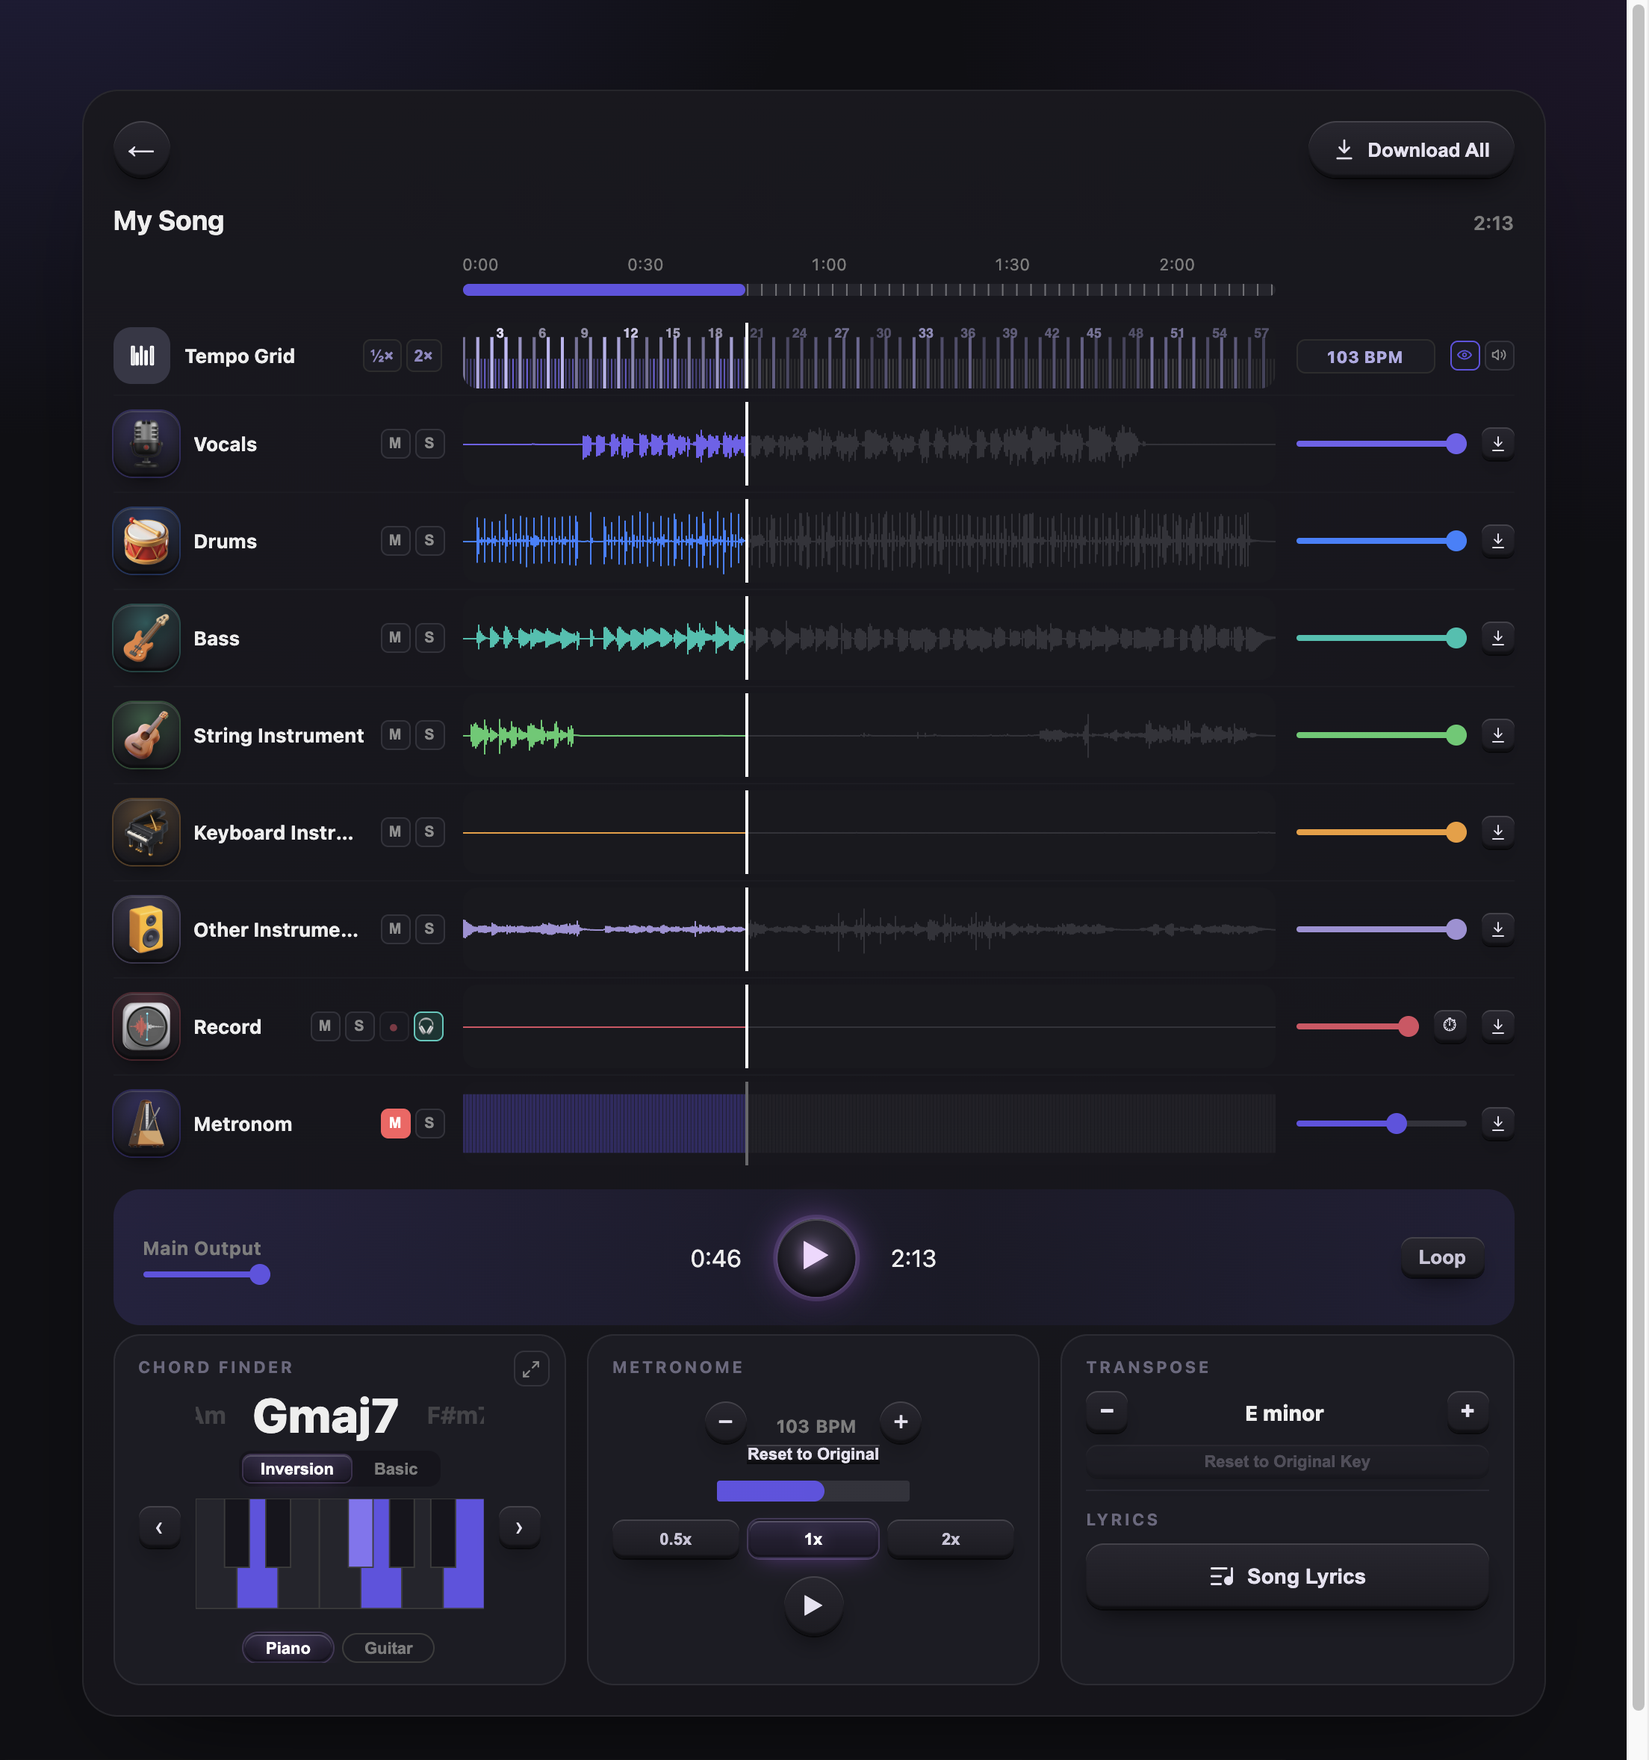
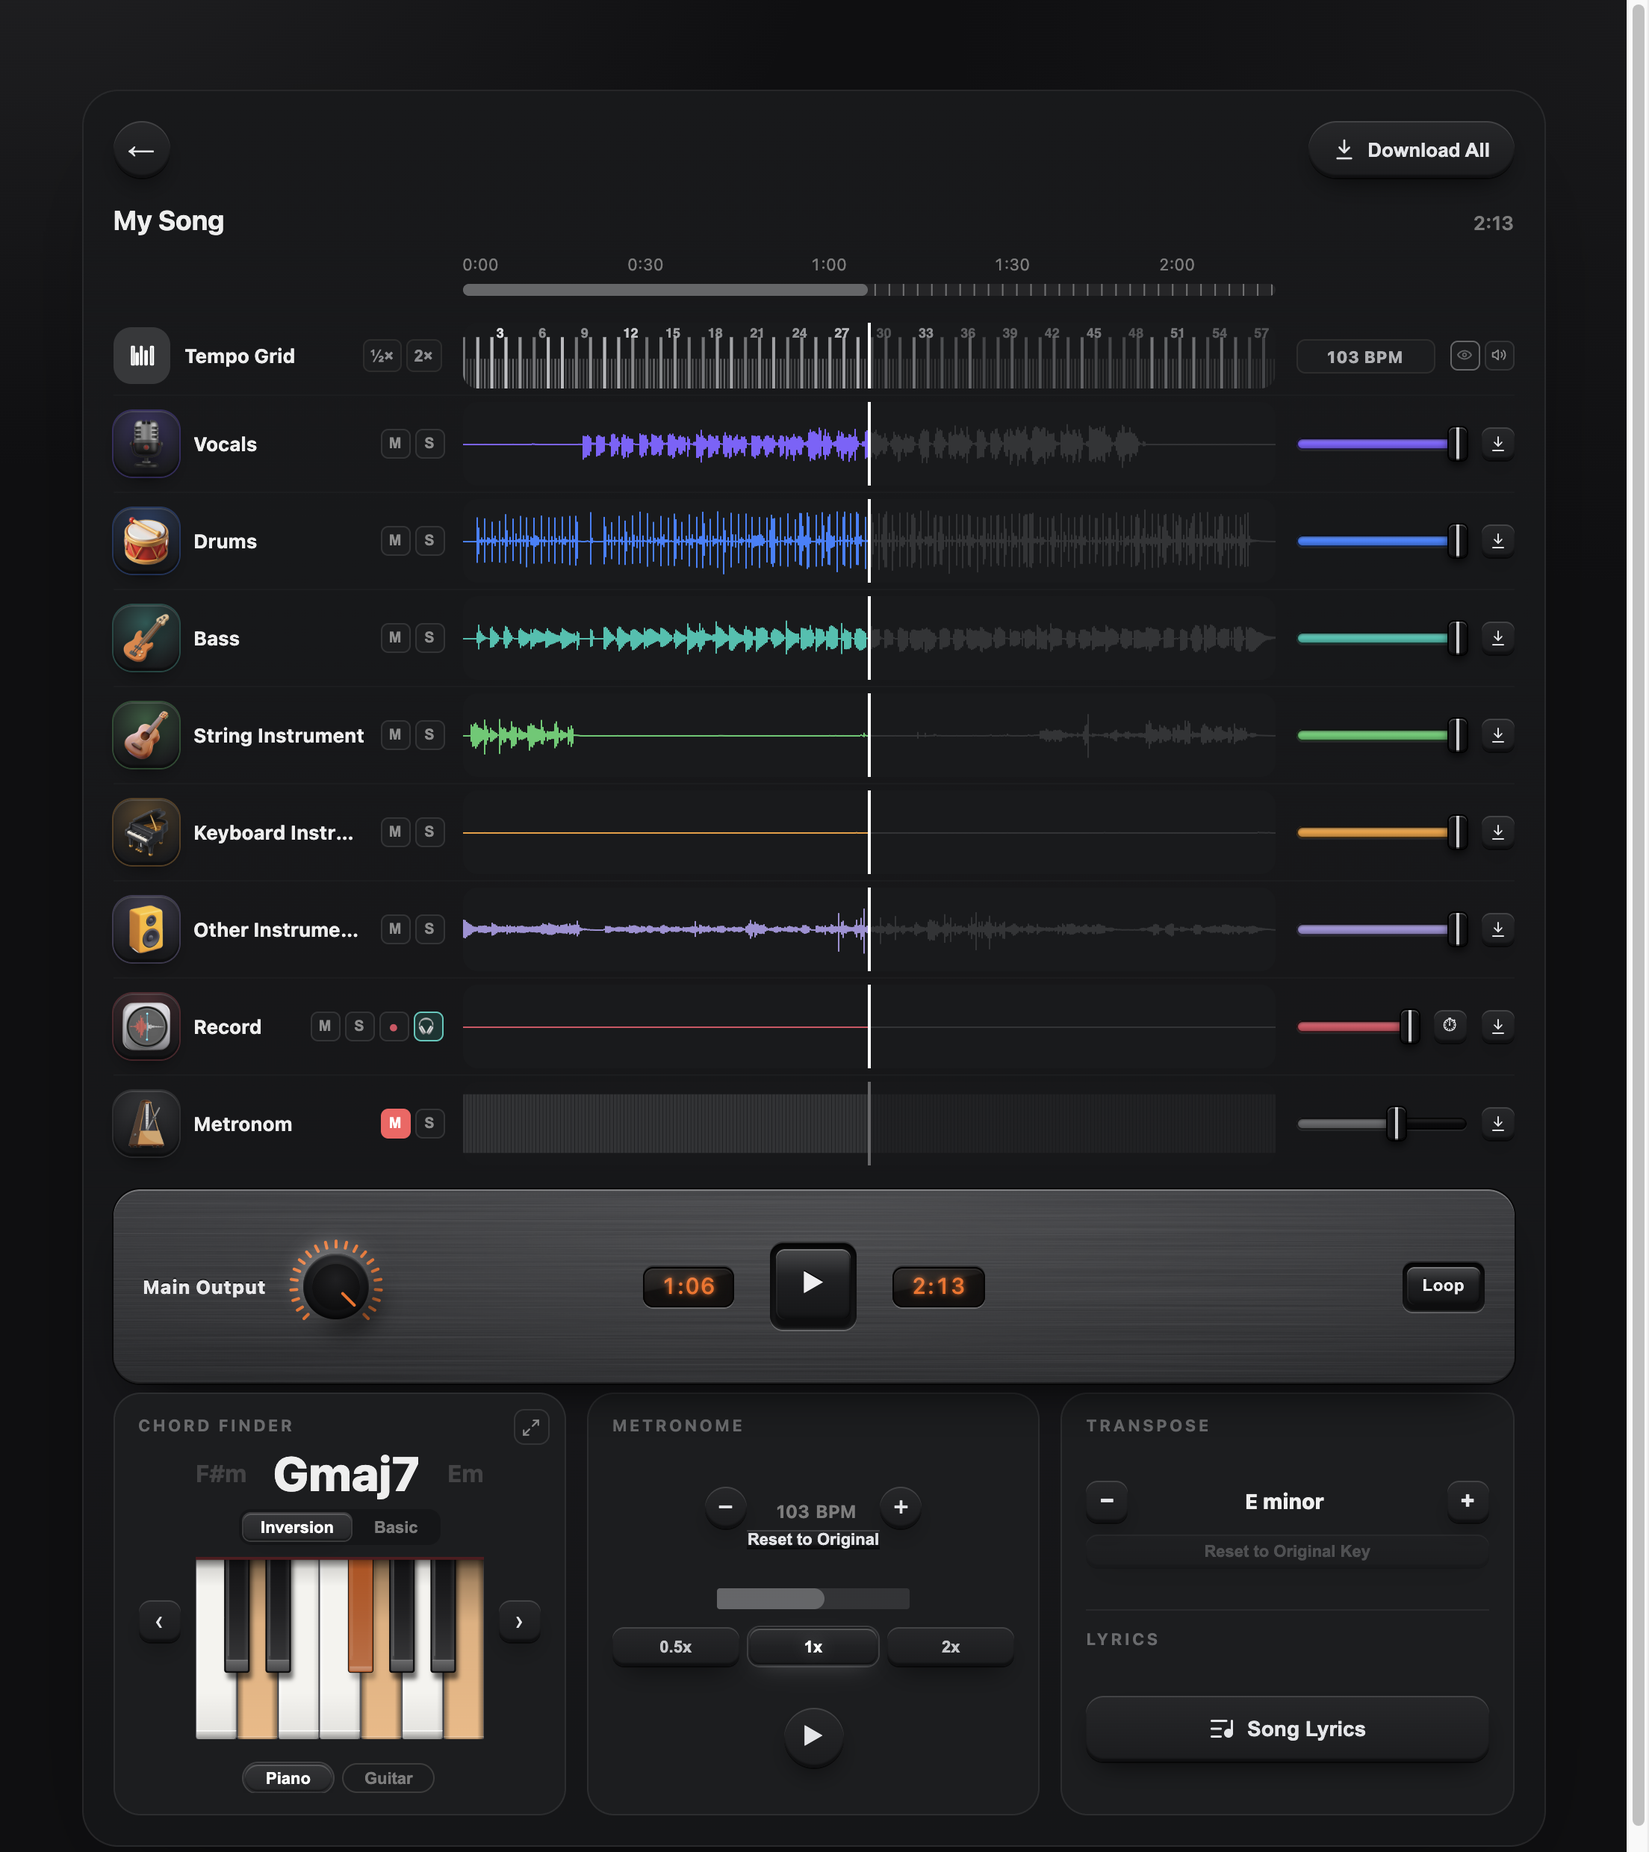
uygulama görüntüleri yeni arayüzle yenilendi (ekran + 4 vitrin kırpığı + hero maketi)
Barış: "bu bölümü yeni görünümle değiştir… yine My Song isminde olsun, piyano
Gmaj7 basabilir yine, ama tamamen son yaptığımız arayüz olsun" + vitrin
bölümü için "bu bölümleri de yeni görünümle değiştir".

ÇEKİM — Barış'ın kendi açık Electron örneğinden (CDP, port 9336), gerçek
işlenmiş "My Song" ile. Sahte veri KULLANILMADI ([[voxomix-reklam-filmleri]]
kuralı: üretme, gerçek arayüzden kırp). Doğrulandı: My Song · Gmaj7 · 103 BPM ·
E minor · 2:13. Emülasyon 1344×1260 @2x, çekim sonrası
Emulation.clearDeviceMetricsOverride ile penceresi eski hâline bırakıldı.
Uygulama kodu okunmadı/değiştirilmedi, uygulama kapatılmadı.

- assets/app-screenshot.png 2208×2356 → 2208×2479. Yeni arayüz daha uzun:
  alt paneller eski 1178 px'lik görünüme sığmıyordu, yükseklik içeriğe göre
  ölçülerek belirlendi (içerik altı 1215,4 mantıksal + pay).
- assets/features/{bpm,record,chords,tempo}.png: CDP ile ölçülen gerçek öğe
  kutularından kırpıldı. Satırlar yeni arayüzde daha dar olduğu için ölçüler
  değişti: bpm 2017×118 → 1876×106 · record 2017×126 → 1876×130 ·
  chords 662×524 → 607×567 · tempo 662×477 → 606×567. Yeniden ölçeklemek
  yerine doğal boyut korundu (bozulma olmasın), blogdaki width/height
  beyanları 6 dilde güncellendi (6 dosya, 12 beyan).
- assets/hero-laptop.webp yeniden üretildi.

tools/hero-laptop.py İKİ DÜZELTME:
1. Kırpma noktaları eski düzene göreydi (X 80/2144, y 40-885 ve 1772-2336);
   CDP ölçümlerinden yeniden hesaplandı (X 110/2068, y 40-930 ve 1850-2445).
[…]

diff --git a/es/blog/como-saber-el-bpm-de-una-cancion.html b/es/blog/como-saber-el-bpm-de-una-cancion.html
@@ -283,7 +283,7 @@
 
     <p>Cuando termina el análisis, los pulsos se alinean en la franja <strong>Tempo Grid</strong> de la parte superior y el BPM de la canción aparece a la derecha (por ejemplo, <strong>103 BPM</strong>). Encima de la rejilla van los números de compás, así que siempre sabes en qué punto de la canción estás.</p>
 
-    <img src="/assets/features/bpm.png" alt="Franja Tempo Grid de VoxoMix: pulsos alineados en la cuadrícula, números de compás, botones ½× y 2× e indicador de 103 BPM" width="2017" height="118" loading="lazy">
+    <img src="/assets/features/bpm.png" alt="Franja Tempo Grid de VoxoMix: pulsos alineados en la cuadrícula, números de compás, botones ½× y 2× e indicador de 103 BPM" width="1876" height="106" loading="lazy">
 
     <h3>3. Corrígelo si sale a la mitad o al doble</h3>
 
@@ -301,7 +301,7 @@
 
     <p>Para ralentizar la parte difícil, arrastra hacia la izquierda el <strong>control deslizante de velocidad</strong> del panel Metronome; va de 0,5 a 1,5 y, en el extremo izquierdo, la canción suena a la mitad de velocidad. La altura no cambia y el metrónomo sigue el nuevo tempo: una canción a 65 BPM baja a unos 32–33 BPM. Con <strong>−</strong> y <strong>+</strong> cambias el tempo de BPM en BPM, y con <strong>Reset to Original</strong> vuelves al tempo original. Los botones <strong>0.5x / 1x / 2x</strong> del panel no cambian la velocidad: eligen la subdivisión del metrónomo; 0.5x hace clic cada dos pulsos y 2x, dos veces por pulso.</p>
 
-    <img src="/assets/features/tempo.png" alt="Panel Metronome de VoxoMix: 103 BPM, botones − y +, Reset to Original, control deslizante de velocidad, botones de subdivisión 0.5x, 1x y 2x y botón de reproducción" width="662" height="477" loading="lazy">
+    <img src="/assets/features/tempo.png" alt="Panel Metronome de VoxoMix: 103 BPM, botones − y +, Reset to Original, control deslizante de velocidad, botones de subdivisión 0.5x, 1x y 2x y botón de reproducción" width="606" height="567" loading="lazy">
 
     <h3>6. Toca tu parte con el metrónomo</h3>
 

diff --git a/fr/blog/trouver-le-bpm-dune-chanson.html b/fr/blog/trouver-le-bpm-dune-chanson.html
@@ -283,7 +283,7 @@
 
     <p>Une fois l'analyse terminée, les temps s'alignent sur la bande <strong>Tempo Grid</strong> en haut de l'écran, et le BPM de la chanson s'affiche à droite (par exemple <strong>103 BPM</strong>). Les numéros de mesure défilent en haut de la grille : vous savez toujours où vous en êtes dans la chanson.</p>
 
-    <img src="/assets/features/bpm.png" alt="Bandeau Tempo Grid de VoxoMix : temps alignés sur la grille, numéros de mesure, boutons ½× et 2× et affichage 103 BPM" width="2017" height="118" loading="lazy">
+    <img src="/assets/features/bpm.png" alt="Bandeau Tempo Grid de VoxoMix : temps alignés sur la grille, numéros de mesure, boutons ½× et 2× et affichage 103 BPM" width="1876" height="106" loading="lazy">
 
     <h3>3. Corrigez si le tempo est lu à moitié ou au double</h3>
 
@@ -301,7 +301,7 @@
 
     <p>Pour ralentir le passage difficile, faites glisser vers la gauche le <strong>curseur de vitesse</strong> du panneau Metronome ; il va de 0,5 à 1,5 et, tout à gauche, la chanson passe à mi-vitesse. La hauteur ne change pas et le métronome suit le nouveau tempo : une chanson à 65 BPM descend à environ 32–33 BPM. <strong>−</strong> et <strong>+</strong> modifient le tempo BPM par BPM, et <strong>Reset to Original</strong> ramène au tempo d'origine. Les boutons <strong>0.5x / 1x / 2x</strong> du panneau ne changent pas la vitesse : ils règlent la subdivision du métronome ; 0.5x clique un temps sur deux, 2x deux fois par temps.</p>
 
-    <img src="/assets/features/tempo.png" alt="Panneau Metronome de VoxoMix : 103 BPM, boutons − et +, Reset to Original, curseur de vitesse, boutons de subdivision 0.5x, 1x et 2x et bouton lecture" width="662" height="477" loading="lazy">
+    <img src="/assets/features/tempo.png" alt="Panneau Metronome de VoxoMix : 103 BPM, boutons − et +, Reset to Original, curseur de vitesse, boutons de subdivision 0.5x, 1x et 2x et bouton lecture" width="606" height="567" loading="lazy">
 
     <h3>6. Jouez votre partie avec le métronome</h3>
 

diff --git a/it/blog/trovare-i-bpm-di-una-canzone.html b/it/blog/trovare-i-bpm-di-una-canzone.html
@@ -283,7 +283,7 @@
 
     <p>Quando l'analisi è finita, i battiti si allineano sulla striscia <strong>Tempo Grid</strong> in alto e i BPM della canzone compaiono sulla destra (per esempio <strong>103 BPM</strong>). In cima alla griglia scorrono i numeri delle battute, così sai sempre in che punto della canzone ti trovi.</p>
 
-    <img src="/assets/features/bpm.png" alt="Barra Tempo Grid di VoxoMix: battiti allineati sulla griglia, numeri di battuta, pulsanti ½× e 2× e indicatore 103 BPM" width="2017" height="118" loading="lazy">
+    <img src="/assets/features/bpm.png" alt="Barra Tempo Grid di VoxoMix: battiti allineati sulla griglia, numeri di battuta, pulsanti ½× e 2× e indicatore 103 BPM" width="1876" height="106" loading="lazy">
 
     <h3>3. Correggi se legge la metà o il doppio</h3>
 
@@ -301,7 +301,7 @@
 
     <p>Per rallentare il passaggio difficile, trascina verso sinistra il <strong>cursore della velocità</strong> nel pannello Metronome; va da 0,5 a 1,5 e, tutto a sinistra, la canzone suona a metà velocità. L'altezza del suono resta la stessa e il metronomo segue il nuovo tempo: una canzone a 65 BPM scende a circa 32-33 BPM. Con <strong>−</strong> e <strong>+</strong> cambi il tempo di un BPM alla volta e con <strong>Reset to Original</strong> torni al tempo originale. I pulsanti <strong>0.5x / 1x / 2x</strong> del pannello non cambiano la velocità: scelgono la suddivisione del metronomo; 0.5x fa clic un battito sì e uno no, 2x due volte per battito.</p>
 
-    <img src="/assets/features/tempo.png" alt="Pannello Metronome di VoxoMix: 103 BPM, pulsanti − e +, Reset to Original, cursore della velocità, pulsanti di suddivisione 0.5x, 1x e 2x e pulsante play" width="662" height="477" loading="lazy">
+    <img src="/assets/features/tempo.png" alt="Pannello Metronome di VoxoMix: 103 BPM, pulsanti − e +, Reset to Original, cursore della velocità, pulsanti di suddivisione 0.5x, 1x e 2x e pulsante play" width="606" height="567" loading="lazy">
 
     <h3>6. Suona la tua parte con il metronomo</h3>
 

diff --git a/de/blog/bpm-eines-songs-herausfinden.html b/de/blog/bpm-eines-songs-herausfinden.html
@@ -283,7 +283,7 @@
 
     <p>Sobald die Analyse fertig ist, reihen sich die Schläge oben im Streifen <strong>Tempo Grid</strong> auf, und rechts erscheint die BPM-Zahl des Songs (zum Beispiel <strong>103 BPM</strong>). Oben im Raster laufen die Taktnummern mit, damit du immer weißt, wo du gerade im Song bist.</p>
 
-    <img src="/assets/features/bpm.png" alt="VoxoMix-Leiste Tempo Grid: Schläge im Raster, Taktnummern, ½×- und 2×-Tasten und eine Anzeige von 103 BPM" width="2017" height="118" loading="lazy">
+    <img src="/assets/features/bpm.png" alt="VoxoMix-Leiste Tempo Grid: Schläge im Raster, Taktnummern, ½×- und 2×-Tasten und eine Anzeige von 103 BPM" width="1876" height="106" loading="lazy">
 
     <h3>3. Korrigieren, wenn halb oder doppelt erkannt wurde</h3>
 
@@ -301,7 +301,7 @@
 
     <p>Um die schwere Stelle zu verlangsamen, ziehst du den <strong>Geschwindigkeitsregler</strong> im Panel Metronome nach links; er reicht von 0,5 bis 1,5, ganz links läuft der Song mit halber Geschwindigkeit. Die Tonhöhe bleibt gleich, und das Metronom folgt dem neuen Tempo: Ein Song mit 65 BPM fällt auf etwa 32–33 BPM. Mit <strong>−</strong> und <strong>+</strong> änderst du das Tempo in Einzelschritten, mit <strong>Reset to Original</strong> kehrst du zum Originaltempo zurück. Die Tasten <strong>0.5x / 1x / 2x</strong> im Panel ändern nicht die Geschwindigkeit, sondern die Unterteilung des Metronoms: 0.5x klickt nur jeden zweiten Schlag, 2x zweimal pro Schlag.</p>
 
-    <img src="/assets/features/tempo.png" alt="VoxoMix-Panel Metronome: 103 BPM, − und +, Reset to Original, Geschwindigkeitsregler, Unterteilungstasten 0.5x, 1x und 2x und Wiedergabetaste" width="662" height="477" loading="lazy">
+    <img src="/assets/features/tempo.png" alt="VoxoMix-Panel Metronome: 103 BPM, − und +, Reset to Original, Geschwindigkeitsregler, Unterteilungstasten 0.5x, 1x und 2x und Wiedergabetaste" width="606" height="567" loading="lazy">
 
     <h3>6. Deinen eigenen Part zum Metronom spielen</h3>
 

diff --git a/blog/sarkinin-bpmini-bulma.html b/blog/sarkinin-bpmini-bulma.html
@@ -283,7 +283,7 @@
 
     <p>Analiz bitince üstteki <strong>Tempo Grid</strong> şeridinde vuruşlar ızgaraya dizilir ve sağda şarkının BPM'i görünür (örneğin <strong>103 BPM</strong>). Ölçü numaraları ızgaranın üstünde akar; şarkının neresinde olduğunu oradan takip edersin.</p>
 
-    <img src="/assets/features/bpm.png" alt="VoxoMix Tempo Grid şeridi: ızgaraya dizilmiş vuruşlar, ölçü numaraları, ½× ve 2× düğmeleri ve 103 BPM göstergesi" width="2017" height="118" loading="lazy">
+    <img src="/assets/features/bpm.png" alt="VoxoMix Tempo Grid şeridi: ızgaraya dizilmiş vuruşlar, ölçü numaraları, ½× ve 2× düğmeleri ve 103 BPM göstergesi" width="1876" height="106" loading="lazy">
 
     <h3>3. Yarım ya da iki kat çıktıysa düzelt</h3>
 
@@ -301,7 +301,7 @@
 
     <p>Zor bölümü yavaşlatmak için Metronom panelindeki <strong>hız sürgüsünü</strong> sola çek; sürgü 0,5 ile 1,5 arasında çalışır, en solda şarkı yarı hıza iner. Ton bozulmaz, metronom da yeni tempoya uyar: 65 BPM'lik bir şarkı 32-33 BPM civarına iner. <strong>−</strong> ve <strong>+</strong> düğmeleri tempoyu birer BPM değiştirir, <strong>Reset to Original</strong> ile orijinal tempoya dönersin. Paneldeki <strong>0.5x / 1x / 2x</strong> düğmeleri hızı değil, metronomun alt bölümünü seçer: 0.5x iki vuruşta bir, 2x her vuruşta iki tık verir.</p>
 
-    <img src="/assets/features/tempo.png" alt="VoxoMix Metronome paneli: 103 BPM, − ve + düğmeleri, Reset to Original, hız sürgüsü, 0.5x, 1x ve 2x alt bölüm düğmeleri ve oynat düğmesi" width="662" height="477" loading="lazy">
+    <img src="/assets/features/tempo.png" alt="VoxoMix Metronome paneli: 103 BPM, − ve + düğmeleri, Reset to Original, hız sürgüsü, 0.5x, 1x ve 2x alt bölüm düğmeleri ve oynat düğmesi" width="606" height="567" loading="lazy">
 
     <h3>6. Kendi partini metronomla birlikte çal</h3>
 

diff --git a/en/blog/how-to-find-the-bpm-of-a-song.html b/en/blog/how-to-find-the-bpm-of-a-song.html
@@ -283,7 +283,7 @@
 
     <p>When the analysis finishes, the beats line up on the <strong>Tempo Grid</strong> strip at the top and the song's BPM appears on the right (for example <strong>103 BPM</strong>). Bar numbers run along the top of the grid so you always know where you are in the song.</p>
 
-    <img src="/assets/features/bpm.png" alt="VoxoMix Tempo Grid strip: beats lined up on the grid, bar numbers, ½× and 2× buttons and a 103 BPM readout" width="2017" height="118" loading="lazy">
+    <img src="/assets/features/bpm.png" alt="VoxoMix Tempo Grid strip: beats lined up on the grid, bar numbers, ½× and 2× buttons and a 103 BPM readout" width="1876" height="106" loading="lazy">
 
     <h3>3. Fix it if it reads half or double</h3>
 
@@ -301,7 +301,7 @@
 
     <p>To slow down the hard part, drag the <strong>speed slider</strong> on the Metronome panel to the left; it runs from 0.5 to 1.5, and at the far left the song plays at half speed. The pitch stays the same and the metronome follows the new tempo: a 65 BPM song drops to around 32–33 BPM. <strong>−</strong> and <strong>+</strong> change the tempo one BPM at a time, and <strong>Reset to Original</strong> takes you back to the original tempo. The <strong>0.5x / 1x / 2x</strong> buttons on the panel do not change the speed; they set the metronome's subdivision: 0.5x clicks every other beat, 2x clicks twice per beat.</p>
 
-    <img src="/assets/features/tempo.png" alt="VoxoMix Metronome panel: 103 BPM, − and + buttons, Reset to Original, speed slider, 0.5x, 1x and 2x subdivision buttons and a play button" width="662" height="477" loading="lazy">
+    <img src="/assets/features/tempo.png" alt="VoxoMix Metronome panel: 103 BPM, − and + buttons, Reset to Original, speed slider, 0.5x, 1x and 2x subdivision buttons and a play button" width="606" height="567" loading="lazy">
 
     <h3>6. Play your own part with the metronome</h3>
 

diff --git a/tools/hero-laptop.py b/tools/hero-laptop.py
@@ -11,10 +11,21 @@ EX0, EY0, EX1, EY1 = 260, 66, 1744, 978
 
 im = Image.open(KAYNAK).convert('RGBA')
 zemin = Image.new('RGBA', im.size, (12, 12, 15, 255)); zemin.alpha_composite(im); im = zemin.convert('RGB')
-panel = im.getpixel((200, 960))                       # pencere zemin rengi
-X0, X1 = 80, 2144
-ust = im.crop((X0, 40, X1, 885))                       # başlık, zaman çizelgesi, Tempo/Vokal/Davul/Bas
-alt = im.crop((X0, 1772, X1, 2336))                    # Akor bulucu, Metronom, Ton + Sözler
+# Pencere zemin rengi. ESKİDEN sabit (200,960) pikselinden okunuyordu; yeni arayüzde
+# o nokta telli enstrümanın YEŞİL dalga formuna denk geldi ve maketin içi yeşile boyandı.
+# Artık panellerin altındaki boş şeridin ortanca rengi alınıyor — düzen değişse de boş kalır.
+def _zemin(img):
+    serit = img.crop((0, img.height - 30, img.width, img.height - 6))
+    px = list(serit.getdata())
+    px.sort(key=lambda c: c[0] + c[1] + c[2])
+    return px[len(px) // 2]
+panel = _zemin(im)
+# 24.11.2026: yeni arayüzle app-screenshot 2208×2356 → 2208×2479 oldu ve satırlar
+# daha dar (içerik x 151..2027). Kırpma noktaları CDP ile ölçülen gerçek kutulardan
+# yeniden hesaplandı; eski değerler (80/2144, y 40-885 ve 1772-2336) yanlış yere düşüyordu.
+X0, X1 = 110, 2068
+ust = im.crop((X0, 40, X1, 930))                       # başlık, zaman çizelgesi, Tempo/Vokal/Davul/Bas
+alt = im.crop((X0, 1850, X1, 2445))                    # Akor bulucu, Metronom, Ton + Sözler
 cubuk = 64                                            # pencere çubuğu (trafik ışıkları)
 icerik_h = cubuk + ust.height + 18 + alt.height
 EW, EH = EX1 - EX0, EY1 - EY0
